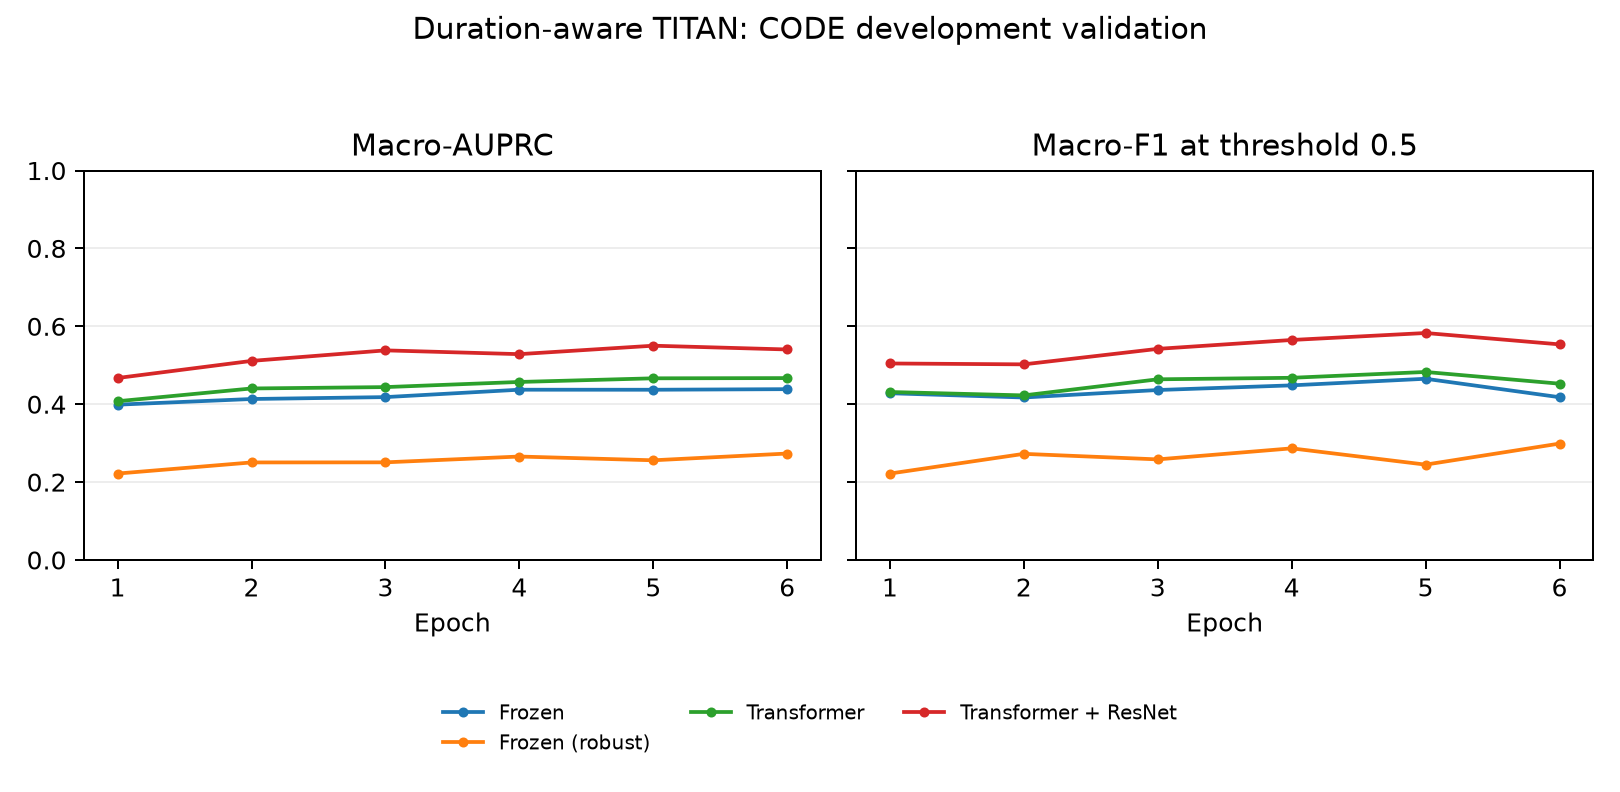
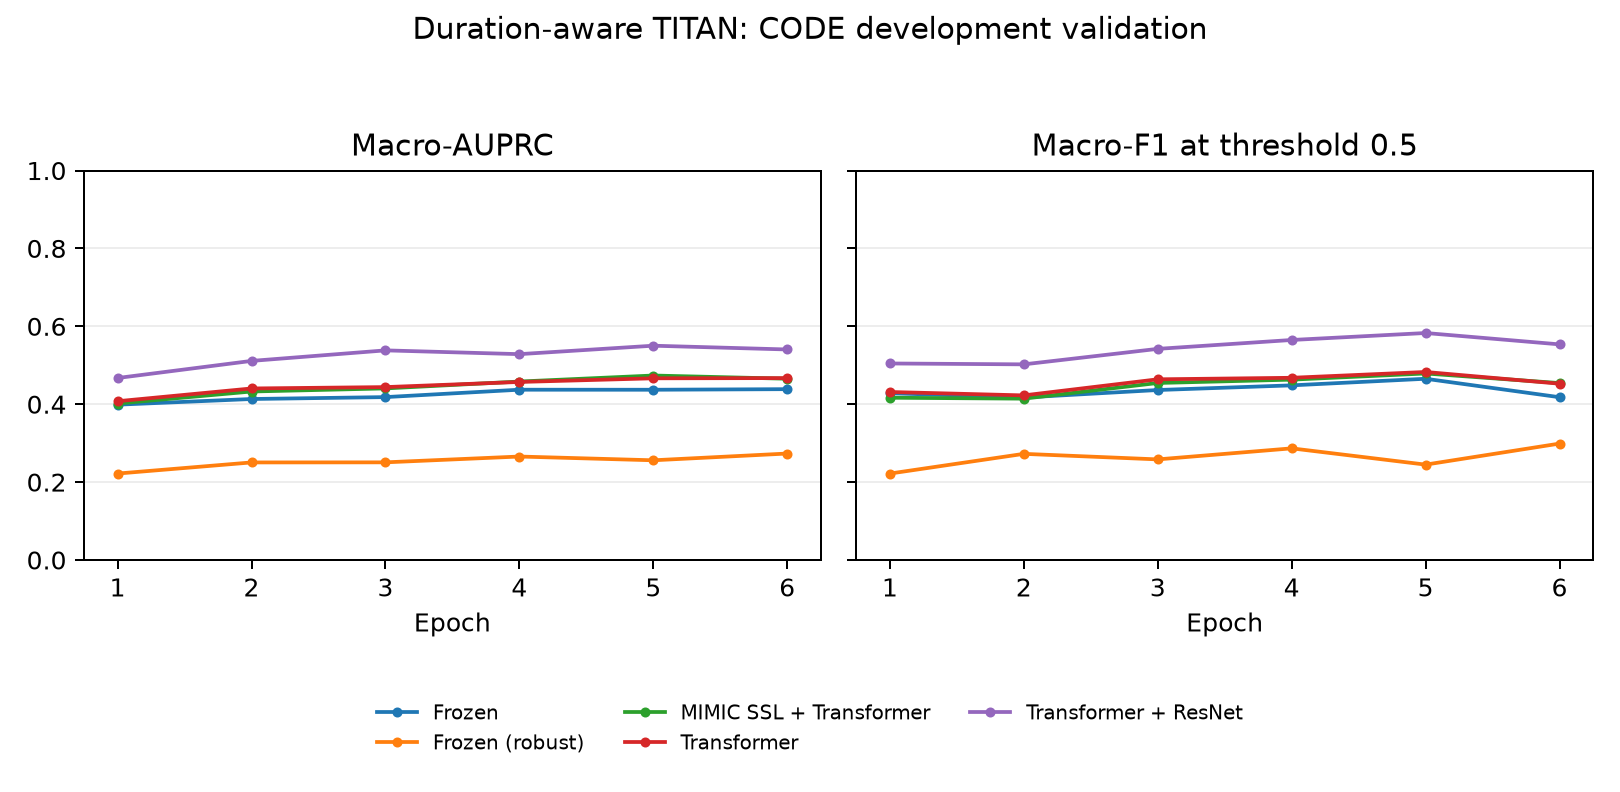
Publish the executed MIMIC warm-start comparison

diff --git a/docs/domain_adaptation/DOMAIN_ADAPTATION_IMPLEMENTATION.md b/docs/domain_adaptation/DOMAIN_ADAPTATION_IMPLEMENTATION.md
@@ -56,8 +56,9 @@ does not substitute for independent institutional confirmation.
 | 33693 | Frozen, robust shared gain | 85143 | 0.273308 | 0.298860 |
 | 33694 | Partial Transformer, per-lead | 9933463 | 0.467045 | 0.452656 |
 | 33696 | Partial Transformer + ResNet, per-lead | 16992199 | 0.550205 | 0.582790 |
+| 33701 | MIMIC SSL warm start + partial Transformer | 9933463 | 0.473650 | 0.478860 |
 
-All four jobs completed with exit code `0:0`. AP and F1 are macro averages on
+All five jobs completed with exit code `0:0`. AP and F1 are macro averages on
 the same five CODE validation endpoints at each arm's best validation AP epoch.
 The ResNet arm improved validation F1 by 0.164822 over the per-lead frozen
 control, so the insufficient-within-CODE-improvement condition for full fine-
@@ -70,6 +71,10 @@ Its masked reconstruction loss decreased from 0.311588 to 0.295683. This
 checks the self-supervised objective, not diagnostic transfer. The receipt
 and its [two-epoch trace](evidence/mimic_ssl/SSL_LEARNING_CURVES.csv) are
 sealed separately from the downstream CODE supervised comparison.
+The supervised warm start exceeded the corresponding Transformer-only arm by
+0.006605 macro-AP and 0.026203 F1 in this initial seed, but did not beat the
+Transformer plus ResNet arm. These differences are development observations,
+not a paired statistical claim about transfer to another institution.
 
 The [run table](evidence/TRAINING_EXPERIMENTS_COMPLETE.csv),
 [learning curves](evidence/FINETUNING_LEARNING_CURVES.csv), and
@@ -98,3 +103,5 @@ is a useful technical audit candidate but cannot support all five endpoints at
 the registered minimum of 20 positive and negative patients per class. For P4,
 the exact ECG-level phenotype, timing and anatomical labels must be compatible;
 history of infarction and nonspecific ischemia codes are not substitutes.
+The authors reported that HEEDB access and CEDIA processing permission are not
+confirmed. No download or evaluation was attempted for this source.
